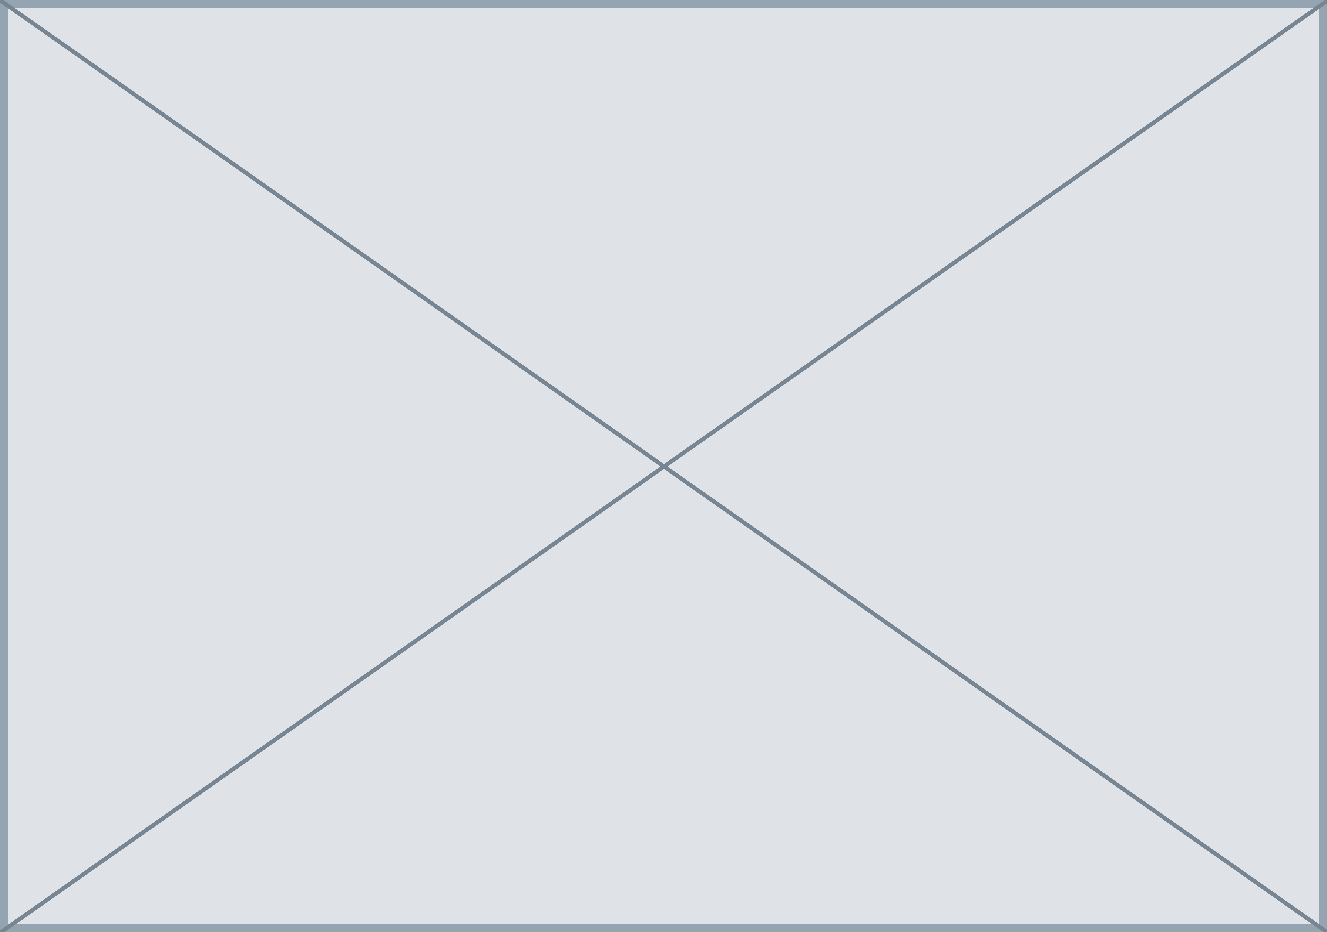
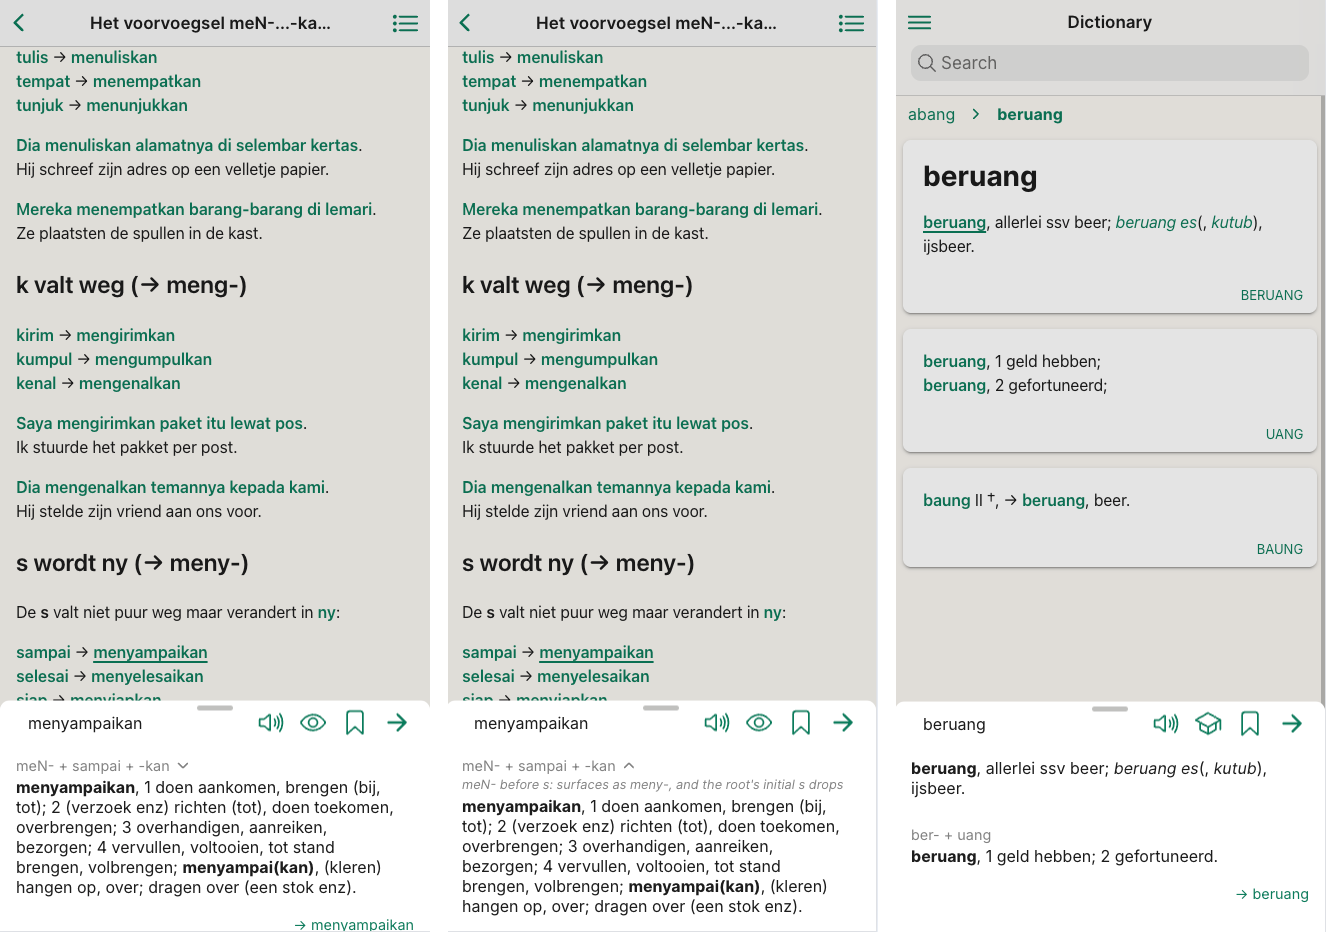
docs(overview): swap morphology example to menyampaikan, refresh figures, fix typos
Replace the menyapukan decomposition example with menyampaikan (same
meN-/s-drop sound change), update the screenshots, expand Figure 2 to a
three-panel breakdown, and fix assorted typos.

diff --git a/apps/docs/docs/guide/overview.md b/apps/docs/docs/guide/overview.md
@@ -49,22 +49,26 @@ Here is a breakdown of Figure 1:
 
 A key feature in Taalwiz is that every coloured word (i.e., all Indonesian words) can be tapped to initiate a dictionary search. This is illustrated in Figure 2.
 
-![Tap-to-search](images/search-4-5.png)
+![Tap-to-search](images/search-4-5-6.png)
 <small>Figure 2: *Tap-to-Search*</small>
 
 Breakdown:
 
-1. In the first panel showing the search results for the word _abang_ the user tapped the word _cemara_. This brings up a panel that slides up from the bottom (a _bottom sheet_) with dictionary definitions for the word _cemara_. Tapping anywhere outside of the bottom sheet dismisses it.
+1. The first panel shows the search results for the word _abang_.
 
-    At the bottom of the sheet a _→ cemara_ link points to the dictionary entry the definition belongs to. Tapping it dismisses the sheet and opens the full entry. On a laptop, Cmd-click (Mac) or Ctrl-click (Windows/Linux) on a word does the same in a single step, without opening the sheet.
+2. In the second panel the user tapped the word _cemara_ in the card for _cemara_ where the word _abang_ was used in an example. This brings up a panel that slides up from the bottom (a _bottom sheet_) with condensed dictionary definitions for the word _cemara_. Tapping anywhere outside of the bottom sheet dismisses it.
 
-2. The second panel shows the full entry for _cemara_, after tapping the _→ cemara_ link.
+    Tapping the _→_ icon in the sheet's toolbar, or the _→ cemara_ link at the bottom, dismisses the sheet and opens the full entry for _cemara_.
+
+    On a laptop, Cmd-click (Mac) or Ctrl-click (Windows/Linux) on a word does the same in a single step, without opening the sheet.
+
+3. The third panel shows the full entry for _cemara_, after tapping the _→ cemara_ link.
 
 ### Reverse Lookup
 
 In addition to searching for Indonesian words the app also supports searching for Dutch words in the Teeuw dictionary, i.e. a _reverse lookup_. By indexing the Dutch glosses of every lemma, the app offers a practical Dutch-to-Indonesian path on a dictionary that was only ever built to go the other way, something a printed unidirectional dictionary cannot do at all. A search for a Dutch word returns the lemmas in which it occurs. This is not a substitute for a true bidirectional dictionary, but in practice it is genuinely useful.
 
-The reverse lookup is illustrated in Figure 3. Referring back to Figure 1, first panel, this the result of tapping on the _beraadslagen_ suggestion.
+The reverse lookup is illustrated in Figure 3. Referring back to Figure 1, first panel, this is the result of tapping on the _beraadslagen_ suggestion.
 
 ![Reverse lookup](images/reverse-lookup.png)
 <small>Figure 3: *Reverse lookup for the Dutch word _beraadslagen_*</small>
@@ -89,9 +93,9 @@ The content organisation is illustrated in Figure 4.
 
 ### Tap-to-Search in Articles
 
-Every Indonesian word in an article text is tappable, triggering a switch to the Dictionary tab and initiating a search for the tapped word. This is illustrated in Figure 5 below.
+Every Indonesian word in an article text is tappable, triggering a switch to the Dictionary tab and initiating a search for the tapped word in the same way as we saw earlier. This is illustrated in Figure 5 below.
 
-![Article tap-to-search](images/article-tap.png)
+![Article tap-to-search](images/article-tap.png)<br />
 <small>Figure 5: *Tap-to-Search in an Article*</small>
 
 In Figure 5, the word _terbesar_ was tapped. This word does not occur as a definition in the Teeuw dictionary. It only occurs in a gloss of the lemma for headword _bagi_. The search for _terbesar_ lands on its headword _besar_. This is accomplished through affix stripping as part of a search. The app handles a wide range of Indonesian affixes, including some subtleties of their ordering; this is detailed in Appendix I.
@@ -102,18 +106,20 @@ A word worth remembering can be saved to a personal vocabulary list with a secon
 
 ### Word Structure
 
-Beyond finding the right entry, the app can show _how_ an inflected word is built. When a tapped word is a derived form, the word panel adds a short grey line with its **decomposition**, the affixes and the root in order. For _menyapukan_ ("to sweep with"), it shows _meN- + sapu + -kan_.
+Refer to Figure 6.Give 
+
+Beyond finding the right entry, the app can show _how_ an inflected word is built. When a tapped word is a derived form, the word panel adds a short grey line with its **decomposition**, the affixes and the root in order. For _menyampaikan_ ("to convey, to deliver"), it shows _meN- + sampai + -kan_.
 
 This is deliberately not a free guess. The root is the one Teeuw itself records for that entry, since the dictionary groups derived forms under an editorial headword, so the app only has to name the affixes that bridge the surface form to that attested root. Where it cannot do so with confidence, it shows nothing rather than assert a structure Teeuw does not support. A word with two readings carries one line per reading: _beruang_ appears both as the root "bear" (no decomposition) and as _ber- + uang_ ("to have money"), and the reader's context decides which is meant.
 
-A small expandable note explains the trickier sound changes. In _menyapukan_ the prefix meN- before an _s_ surfaces as _meny-_ and the root's initial _s_ drops, which is why the root _sapu_ is not visible on the surface. This is the kind of detail a learner rarely gets from a dictionary alone.
+A small expandable note explains the trickier sound changes. In _menyampaikan_ the prefix meN- before an _s_ surfaces as _meny-_ and the root's initial _s_ drops, which is why the root _sampai_ is not visible on the surface. This is the kind of detail a learner rarely gets from a dictionary alone.
 
-The decomposition doubles as a quick self-test. A toggle in the panel switches it between _show_ and _quiz_: in quiz mode the line is hidden behind a "tap to reveal" prompt, so the learner can try to break the word down first and then check. It adds no separate exercise and no scoring; it simply turns a lookup the reader is already doing into a moment of active recall.
+The decomposition doubles as a quick self-test. A toggle in the panel switches it between _show_ and _quiz_: in quiz mode the line is hidden behind a "tap to reveal" prompt (not shown in Figure 6), so the learner can try to break the word down first and then check. It adds no separate exercise and no scoring; it simply turns a lookup the reader is already doing into a moment of active recall.
 
-The morphological handling is mine to change, and I would welcome a linguist's guidance on extending it. Compound words and reduplication, for instance, are recorded by the dictionary but not yet decomposed in this view.
+> Author's note: The morphological handling is mine to change, and I would welcome a linguist's guidance on extending it. Compound words and reduplication, for instance, are recorded by the dictionary but not yet decomposed in this view.
 
 ![Word structure](images/decomposition.png)
-<small>Figure 6: *The decomposition of _menyapukan_, the sound-change note, and quiz mode.*</small>
+<small>Figure 6: *The decomposition of _menyampaikan_, the sound-change note, and quiz mode.*</small>
 
 ### Fill-in-the-blank exercises
 